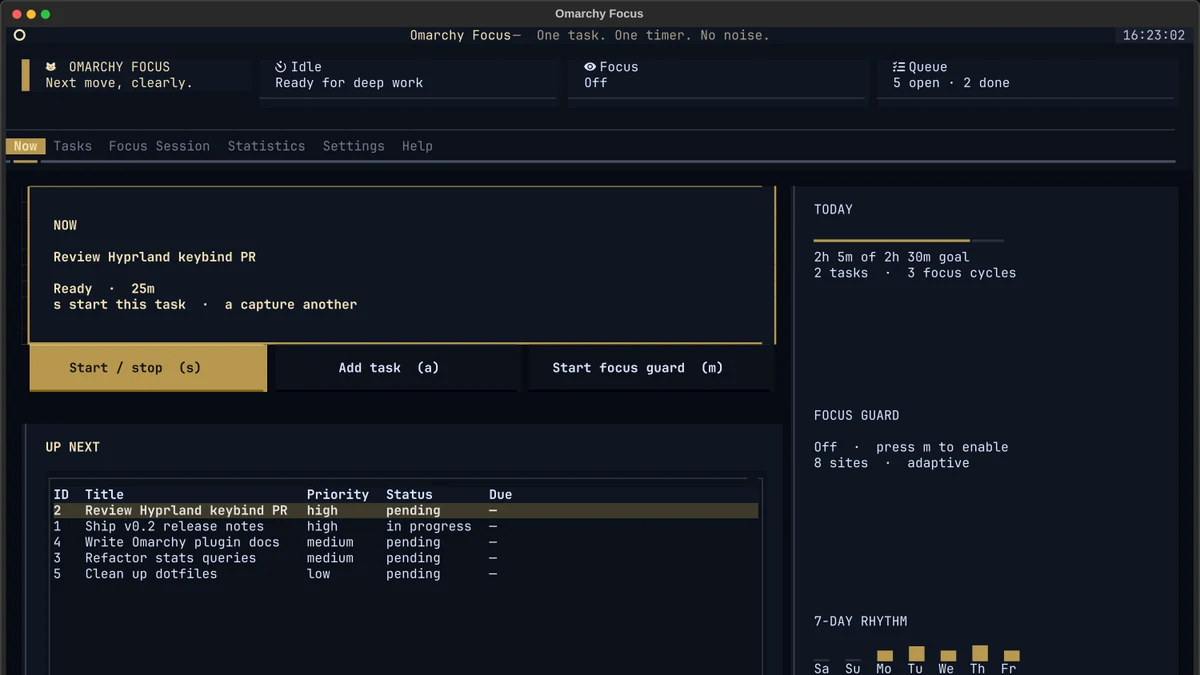
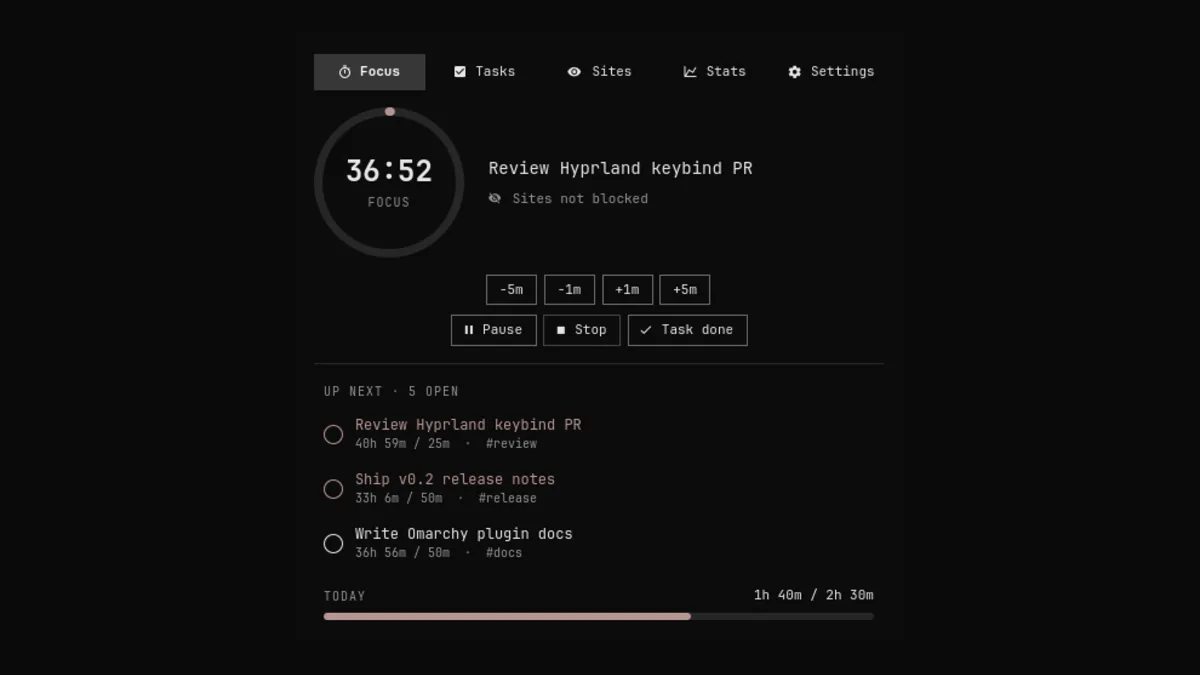
Update Omarchy Focus, Stretch Buddies and Pritingo on the projects page
- Omarchy Focus 0.3.0 lives in the bar panel and dropped the terminal app:
  new description, stack without Textual and a panel screenshot
- Stretch Buddies now has six buddies in eight languages
- Pritingo 0.3.0 prints many files as one document and previews each sheet

diff --git a/src/data/projects.ts b/src/data/projects.ts
@@ -63,20 +63,20 @@ export const featuredProjects: Project[] = [
     id: "omarchy-focus",
     name: "Omarchy Focus",
     description:
-      "Pomodoro timer, task queue and site blocker for Omarchy, with a native bar widget, a TUI and a CLI sharing one SQLite database.",
-    stack: ["Python", "Textual", "QML", "SQLite"],
+      "Pomodoro timer, task queue and site blocker that live in the Omarchy bar. Click the pill for focus, tasks, sites and stats; a CLI shares the same SQLite database.",
+    stack: ["Python", "QML", "SQLite"],
     url: "https://github.com/talhacaglar/omarchy-focus",
     aur: "omarchy-focus",
     image: {
       src: "/projects/omarchy-focus.webp",
-      alt: "Omarchy Focus terminal dashboard with the next task and a queue of sample tasks",
+      alt: "Omarchy Focus bar panel during a session, with a countdown, session controls and a queue of sample tasks",
     },
   },
   {
     id: "pritingo",
     name: "Pritingo",
     description:
-      "Print on Canon PIXMA E400-series printers from Linux: one page per job so nothing gets dropped, with guided two-sided printing.",
+      "Print on Canon PIXMA E400-series printers from Linux: one page per job so nothing gets dropped, with guided two-sided printing, many files as one document and a preview of each sheet.",
     stack: ["C++", "Qt", "QML"],
     url: "https://github.com/talhacaglar/pritingo",
     aur: "pritingo",
@@ -101,7 +101,7 @@ export const featuredProjects: Project[] = [
     id: "stretch-buddies",
     name: "Stretch Buddies",
     description:
-      "Stardew-style stretch breaks for Omarchy. Rigo, Mochi and Porcini pop up every 20 minutes and lead a one-minute neck and back stretch.",
+      "Stardew-style stretch breaks for Omarchy. Six pixel-art buddies take turns popping up every 20 minutes to lead a one-minute neck and back stretch, in eight languages.",
     stack: ["QML"],
     url: "https://github.com/talhacaglar/stretch-buddies",
     image: {
